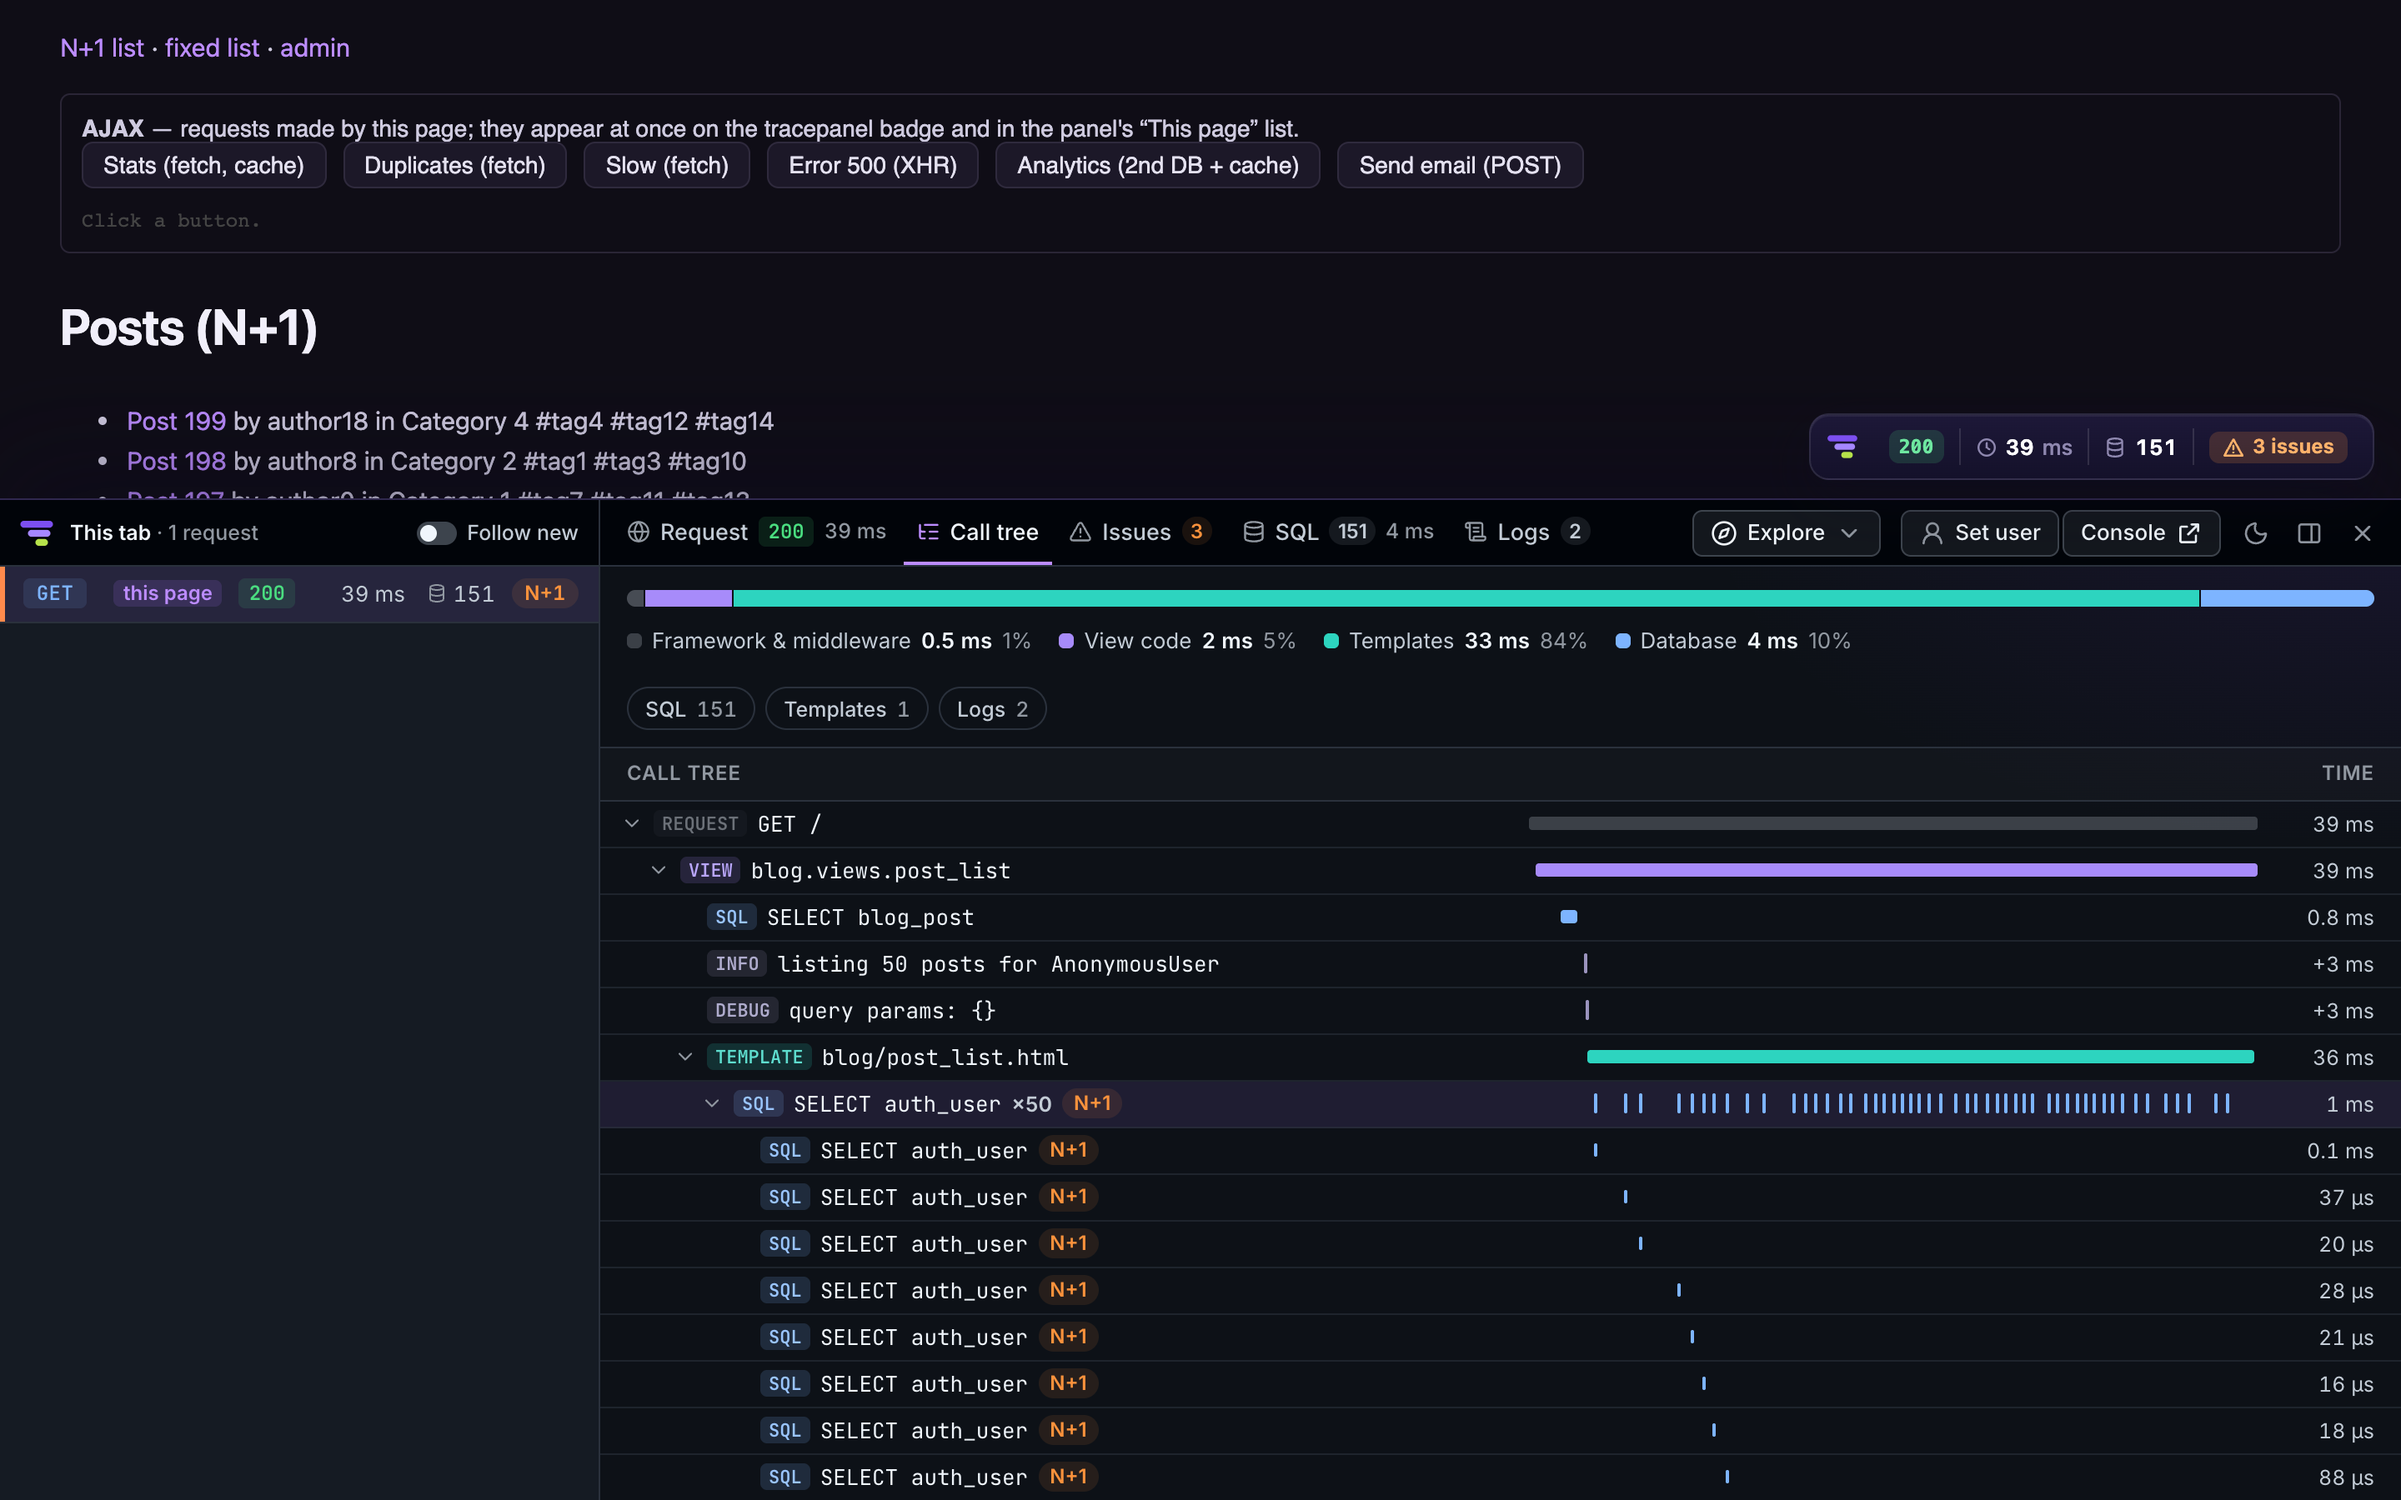
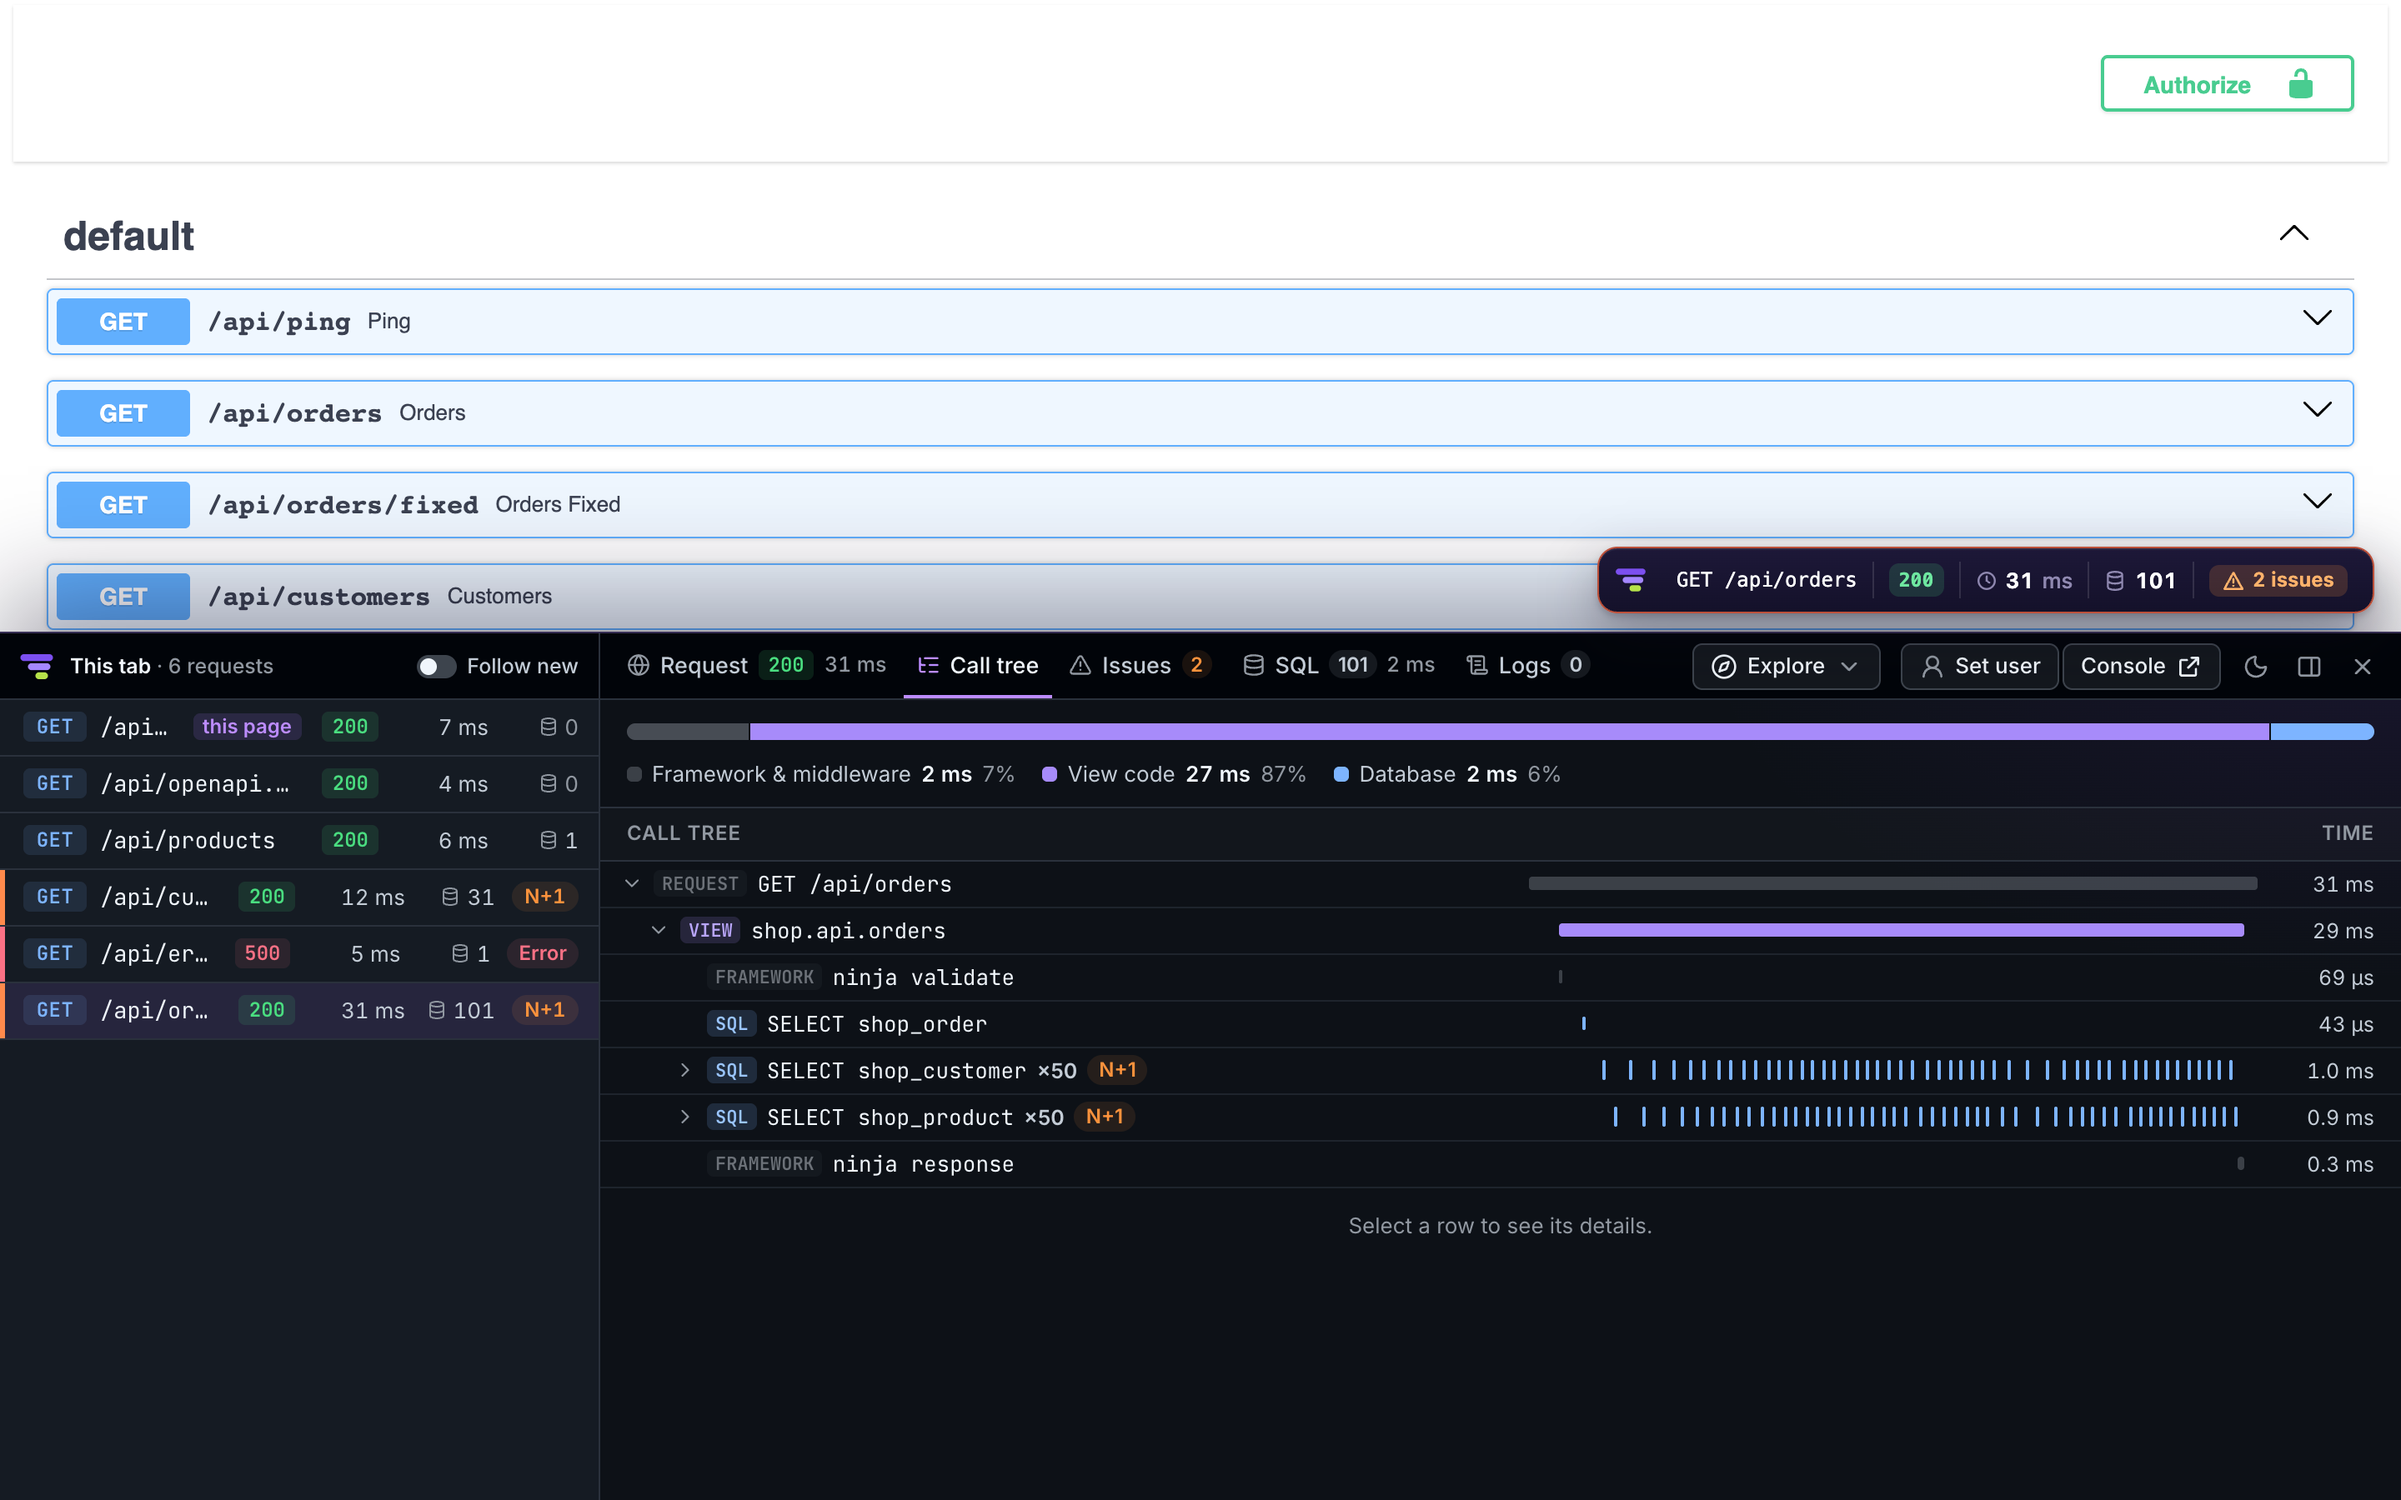
Screenshots: the panel under Swagger UI
The panel's screenshots show it docked under Django Ninja's Swagger UI, with the requests made with Try it out in its list: the call tree, the SQL and the issues of an API request. The admin screenshot is gone.

diff --git a/docs/panel.md b/docs/panel.md
@@ -10,7 +10,7 @@ are picked up too, so a single-page app shows its API calls the same way.
 
 Click the badge for the panel. It docks at the bottom of the page or on the right, and can be resized.
 
-![The panel on a page: the requests of this page on the left, the call tree of the selected one on the right](assets/screenshots/panel-call-tree.png)
+![Swagger UI with the panel docked under it: the requests made with Try it out, and the call tree of one with two N+1 queries](assets/screenshots/panel-call-tree.png)
 
 On the left, the requests of this page, newest last. **Follow new** keeps the newest one selected as they arrive.
 
@@ -35,13 +35,9 @@ SQL
 Logs, Mail, Error
 :   The request's log records, the emails it sent (text and HTML), and its error with the stack and local variables.
 
-![The SQL tab: 151 queries folded into 4 statements, three of them N+1](assets/screenshots/panel-sql.png)
+![The SQL tab of an API request: 101 queries folded into 3 statements, two of them N+1](assets/screenshots/panel-sql.png)
 
 The panel opens on the tab you used last, except for a request with an error, which opens on **Error**.
-
-The admin is traced like any other page: its changelists are where N+1 queries hide most often.
-
-![The panel under a Django admin changelist](assets/screenshots/panel-admin.png)
 
 **Explore** jumps from the request to related views in the console: the same endpoint over time, the same query
 elsewhere. **Console** opens the trace there. The theme button switches light, dark and the system's.

diff --git a/README.md b/README.md
@@ -2,7 +2,7 @@
 
 See what your Django app is really doing.
 
-![The tracepanel panel docked under a Django page: the call tree of one request, with three N+1 queries in its template](docs/assets/screenshots/panel-call-tree.png)
+![Swagger UI with the panel docked under it: the requests made with Try it out, and the call tree of one with two N+1 queries](docs/assets/screenshots/panel-call-tree.png)
 
 Every request, query and task of your Django app, traced: the SQL, cache calls, templates, signals, emails, logs and
 errors of each request, the tasks it queues, and what is worth fixing (N+1 queries with the `select_related()` that
@@ -35,9 +35,10 @@ Then open any page: the panel is at the bottom, and `/__tracepanel__/` is the co
 
 ## What it looks like
 
-Each issue comes with the fix, in Django's terms:
+Requests your pages and tools make with `fetch()` (here, Swagger UI's Try it out) show up in the panel too, each with
+the fix for what is wrong, in Django's terms:
 
-![The Issues tab: three N+1 queries, each with where it comes from and the select_related() or prefetch_related() that fixes it](docs/assets/screenshots/panel-issues.png)
+![The Issues tab of an API request made from Swagger UI: an N+1 with where it comes from and the fix](docs/assets/screenshots/panel-issues.png)
 
 The console shows every endpoint over time, with the slowest and the failing ones:
 

diff --git a/docs/issues.md b/docs/issues.md
@@ -5,7 +5,7 @@ comes from (the culprit) and says how to fix it in Django's terms. Issues show i
 the badge's count), on the console's **Issues** page grouped across requests, and in the terminal line of tasks and
 commands.
 
-![The Issues tab of the panel: three N+1 queries with the fix for each](assets/screenshots/panel-issues.png)
+![The Issues tab of an API request made from Swagger UI: an N+1 with where it comes from and the fix](assets/screenshots/panel-issues.png)
 
 ![The console's Issues page: issues grouped across requests, with the endpoints they happen on and how often](assets/screenshots/console-issues.png)
 

diff --git a/docs/index.md b/docs/index.md
@@ -18,7 +18,7 @@ INSTALLED_APPS += ["tracepanel.django"]
 
 That is the whole setup. With `DEBUG = True`, open any page of your app.
 
-![The panel docked under a Django page: the call tree of one request, with three N+1 queries in its template](assets/screenshots/panel-call-tree.png)
+![Swagger UI with the panel docked under it: the requests made with Try it out, and the call tree of one with two N+1 queries](assets/screenshots/panel-call-tree.png)
 
 ## What you get
 
